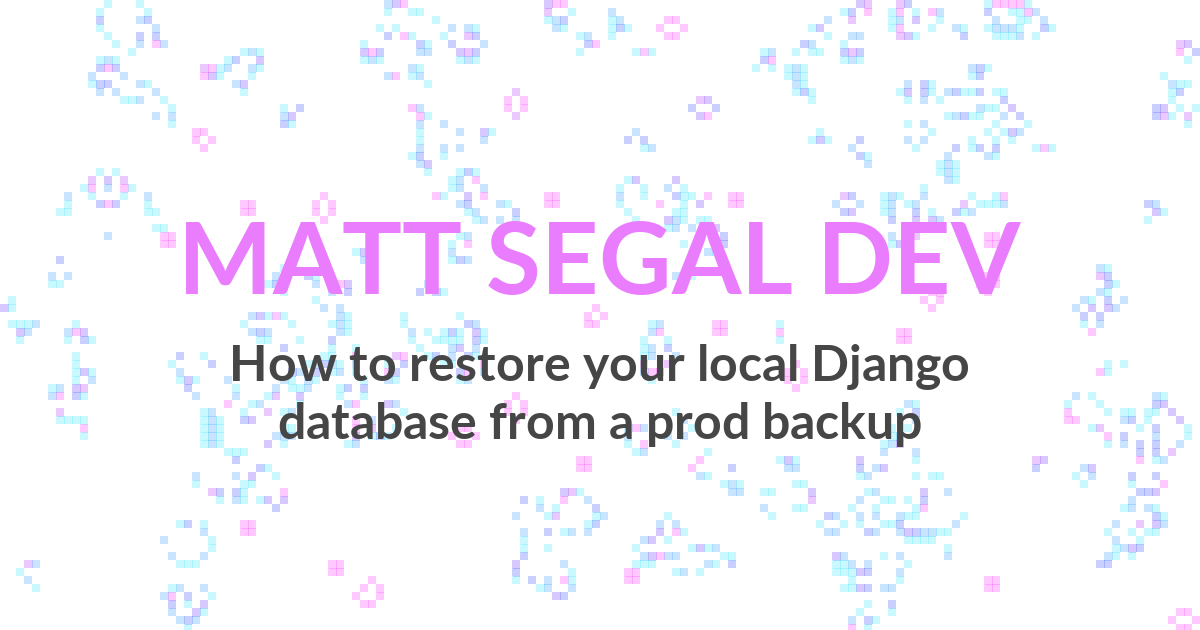
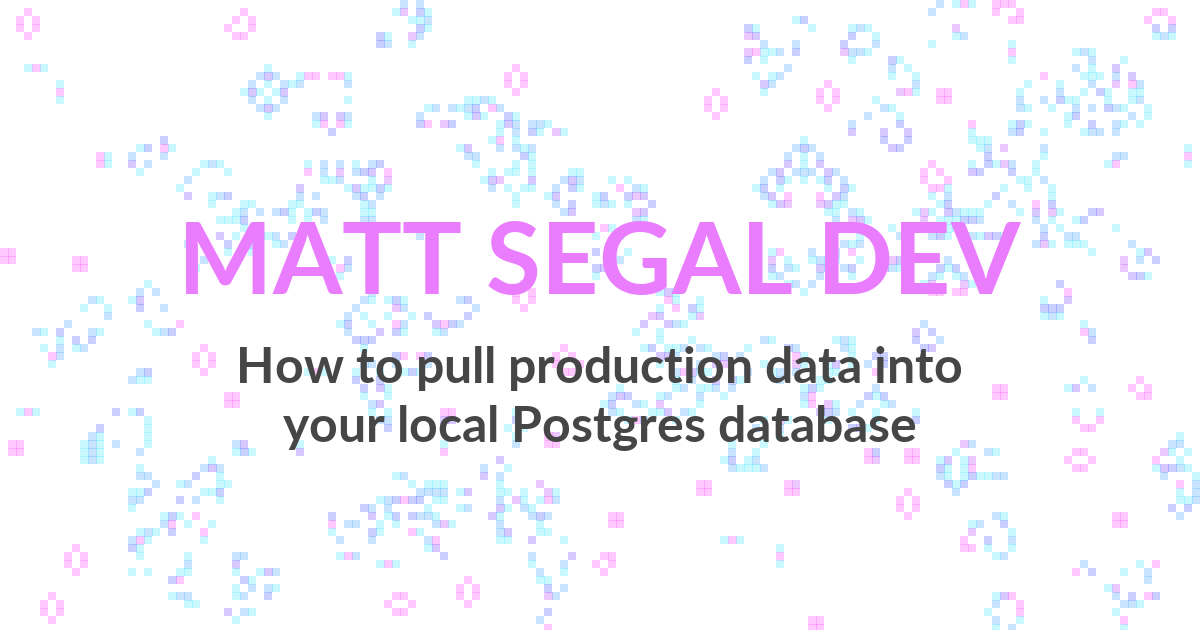
Publish database restore

diff --git a/content/databases/restore-django-local-database.md b/content/databases/restore-django-local-database.md
@@ -1,0 +1,167 @@
+Title: How to pull production data into your local Postgres database
+Description: How to copy a Postgres database backup into your local database
+Slug: restore-django-local-database
+Date: 2020-6-21 12:00
+Category: Django
+
+Sometimes you want to write a feature for your Django app that requires a lot of structured data that already exists in production. This happened to me recently: I needed to create a reporting tool for internal business users. The problem was that I didn't have much data in my local database. How can I see what my reports will look like if I don't have any data?
+
+It's possible to generate a bunch of fake data using a management command. I've written earlier about [how to do this with FactoryBoy](https://mattsegal.dev/django-factoryboy-dummy-data.html). This approach is great for filling web pages with dummy content, but it's tedious to do if your data is highly structured and follows a bunch of implcit rules. In the case of my reporting tool, the data I wanted involved hundreds of form submissions, and each submission has dozens of answers with many different data types. Writing a script to generate data like this would haven take ages! I've also seen situations like this when working with billing systems and online stores with many product categories.
+
+Wouldn't it be nice if we could just get a copy of our production data and use that for local development? You could just pull the latest data from prod and work on your feature with the confidence that you have plenty of data that is structured correctly.
+
+In this post I'll show you a script which you can use to fetch a Postgres database backup from cloud storage and use it to populate your local Postgres database with prod data. This post builds on three previous posts of mine, which you might want to read if you can't follow the scripting in this post:
+
+- [How to automatically reset your local Django database](https://mattsegal.dev/reset-django-local-database.html)
+- [How to backup and restore a Postgres database](https://mattsegal.dev/postgres-backup-and-restore.html)
+- [How to automate your Postgres database backups](https://mattsegal.dev/postgres-backup-automate.html)
+
+I'm going to do all of my scripting in bash, but it's also possible to write similar scripts in PowerShell, with only a few tweaks to the syntax.
+
+### Starting script
+
+Let's start with the "database reset" bash script from my [previous post](https://mattsegal.dev/reset-django-local-database.html). This script resets your local database, runs migrations and creates a local superuser for you to use. We're going to extend this script with an additional step to download and restore from our latest database backup.
+
+```bash
+#!/bin/bash
+# Resets the local Django database, adding an admin login and migrations
+set -e
+echo -e "\n>>> Resetting the database"
+./manage.py reset_db --close-sessions --noinput
+
+# =========================================
+# DOWNLOAD AND RESTORE DATABASE BACKUP HERE
+# =========================================
+
+echo -e "\n>>> Running migrations"
+./manage.py migrate
+
+echo -e "\n>>> Creating new superuser 'admin'"
+./manage.py createsuperuser \
+   --username admin \
+   --email admin@example.com \
+   --noinput
+
+echo -e "\n>>> Setting superuser 'admin' password to 12345"
+./manage.py shell_plus --quiet-load -c "
+u=User.objects.get(username='admin')
+u.set_password('12345')
+u.save()
+"
+
+echo -e "\n>>> Database restore finished."
+```
+
+### Fetching the latest database backup
+
+Now that we have a base script to work with, we need to fetch the latest database backup. I'm going to assume that you've followed my guide on [automating your Postgres database backups](https://mattsegal.dev/postgres-backup-automate.html).
+
+Let's say your database is saved in an AWS S3 bucket called `mydatabase-backups`, and you've saved your backups with a timestamp in the filename, like `postgres_mydatabase_1592731247.pgdump`. Using these two facts we can use a little bit of bash scripting to find the name of the latest backup from our S3 bucket:
+
+```bash
+# Find the latest backup file
+S3_BUCKET=s3://mydatabase-backups
+LATEST_FILE=$(aws s3 ls $S3_BUCKET | awk '{print $4}' | sort | tail -n 1)
+echo -e "\nFound file $LATEST_FILE in bucket $S3_BUCKET"
+```
+
+Once you know the name of the latest backup file, you can download it to the current directory with the `aws` CLI tool:
+
+```bash
+# Download the latest backup file
+aws s3 cp ${S3_BUCKET}/${LATEST_FILE} .
+```
+
+The `.` in this case refers to the current directory.
+
+### Restoring from the latest backup
+
+Now that you've downloaded the backup file, you can apply it to your local database with `pg_restore`. You may need to install a Postgres client on your local machine to get access to this tool. Assuming your local Postgres credentials aren't a secret, you can just hardcode them into the script:
+
+```bash
+pg_restore \
+    --clean \
+    --dbname postgres \
+    --host localhost \
+    --port 5432 \
+    --username postgres \
+    --no-owner \
+    $LATEST_FILE
+```
+
+In this case we use `--clean` to remove any existing data and we use `--no-owner` to ignore any commands that set ownership of objects in the database.
+
+### Look ma, no files!
+
+You don't have to save your backup file to disk before you use it to restore your local database: you can stream the data directly from `aws s3 cp` to `pg_restore` using pipes.
+
+```bash
+aws s3 cp ${S3_BUCKET}/${LATEST_FILE} - | \
+    pg_restore \
+        --clean \
+        --dbname postgres \
+        --host localhost \
+        --port 5432 \
+        --username postgres \
+        --no-owner
+```
+
+The `-` in this case means "stream to stdout", which we use so that we can pipe the data.
+
+### Final script
+
+Here's the whole thing:
+
+```bash
+#!/bin/bash
+# Resets the local Django database,
+# restores from latest prod backup,
+# and adds an admin login and migrations
+set -e
+echo -e "\n>>> Resetting the database"
+./manage.py reset_db --close-sessions --noinput
+
+echo -e "\nRestoring database from S3 backups"
+S3_BUCKET=s3://mydatabase-backups
+LATEST_FILE=$(aws s3 ls $S3_BUCKET | awk '{print $4}' | sort | tail -n 1)
+aws s3 cp ${S3_BUCKET}/${LATEST_FILE} - | \
+    pg_restore \
+        --clean \
+        --dbname postgres \
+        --host localhost \
+        --port 5432 \
+        --username postgres \
+        --no-owner
+
+echo -e "\n>>> Running migrations"
+./manage.py migrate
+
+echo -e "\n>>> Creating new superuser 'admin'"
+./manage.py createsuperuser \
+   --username admin \
+   --email admin@example.com \
+   --noinput
+
+echo -e "\n>>> Setting superuser 'admin' password to 12345"
+./manage.py shell_plus --quiet-load -c "
+u=User.objects.get(username='admin')
+u.set_password('12345')
+u.save()
+"
+
+echo -e "\n>>> Database restore finished."
+```
+
+You should be able to to run this over and over and over to get the latest database backup working on your local machine.
+
+### Other considerations
+
+When talking about using production backups locally, there are two points that I think are important.
+
+First, production data can contain sensitive user information including names, addresses, emails and even credit card details. You need to ensure that this data is only be distributed to people who are authorised to access it, or alternatively the backups should be sanitized so the senitive data is overwritten or removed.
+
+Secondly, It's possible to use database backups to debug issues in production. I think it's a great method for squashing hard-to-reproduce bugs, but it shouldn't be your only way to solve production errors. Before you move onto this technique, you should first ensure you have [application logging](https://mattsegal.dev/file-logging-django.html) and [error monitoring](https://mattsegal.dev/sentry-for-django-error-monitoring.html) set up for your Django app, so that you don't lean on your backups as a crutch.
+
+### Next steps
+
+If you don't already have automated prod backups, I encourage you to set that up if you have any valuable data in your Django app. Once that's done, you'll be able to use this script to pull down prod data into your local dev environment on demand.
